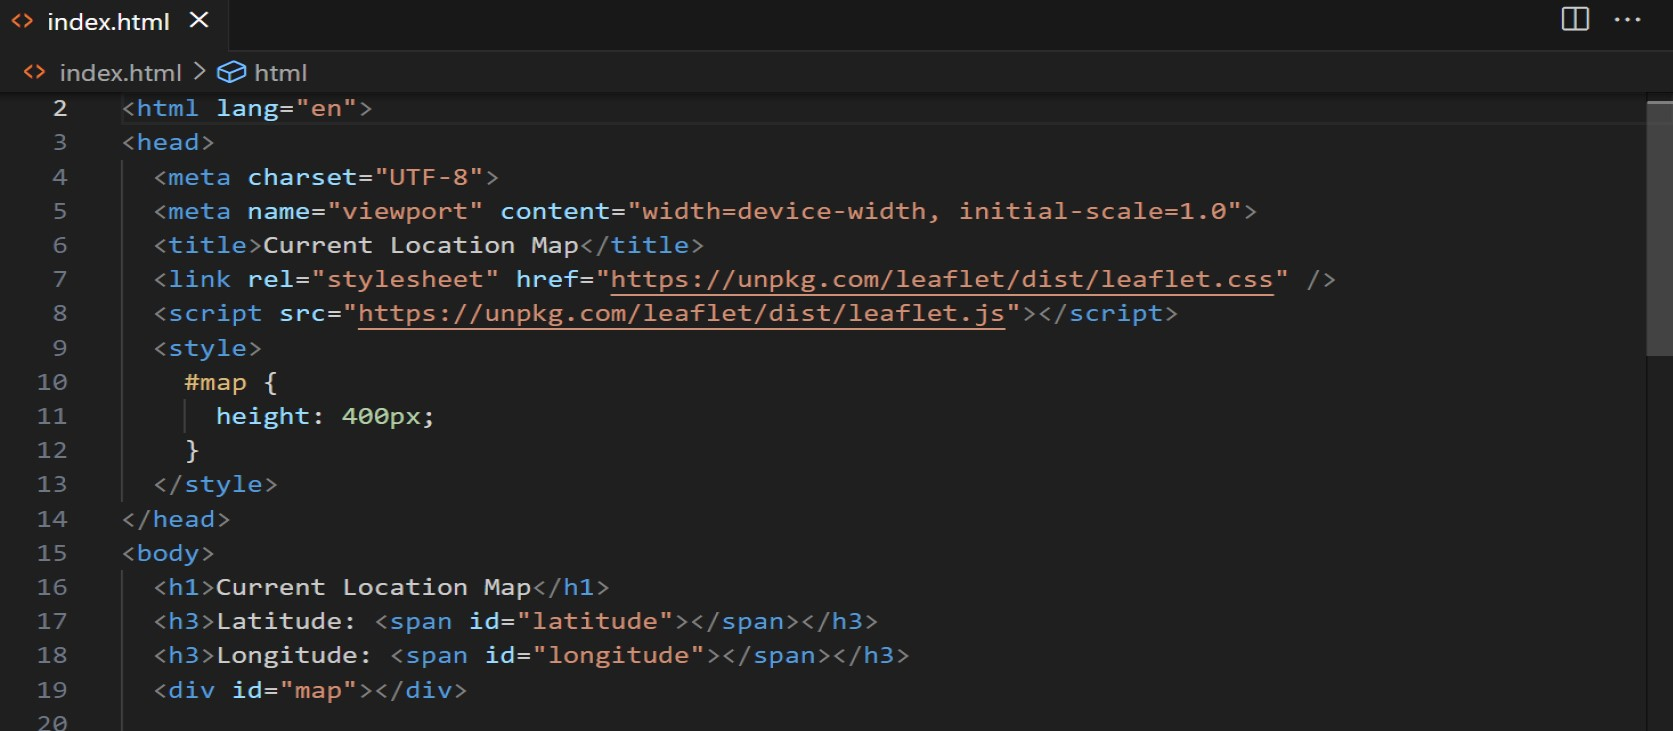
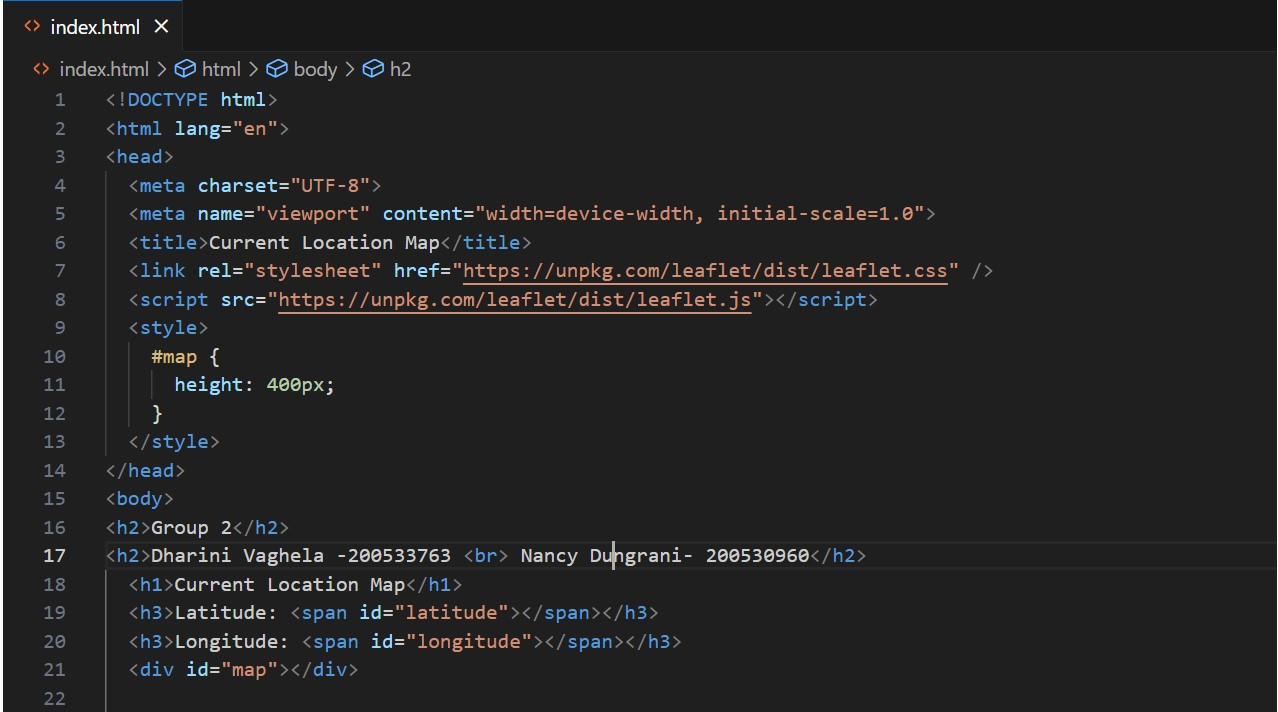
Add files via upload

Changed region(s): [[0.0, 0.0, 0.7934, 1.0], [0.9765, 0.1236, 1.0, 0.4944], [0.9155, 0.0, 0.9765, 0.0618]]

diff --git a/index.html b/index.html
@@ -13,6 +13,8 @@
   </style>
 </head>
 <body>
+<h2>Group 2</h2>
+<h2>Dharini Vaghela -200533763 <br> Nancy Dungrani- 200530960</h2>
   <h1>Current Location Map</h1>
   <h3>Latitude: <span id="latitude"></span></h3>
   <h3>Longitude: <span id="longitude"></span></h3>
